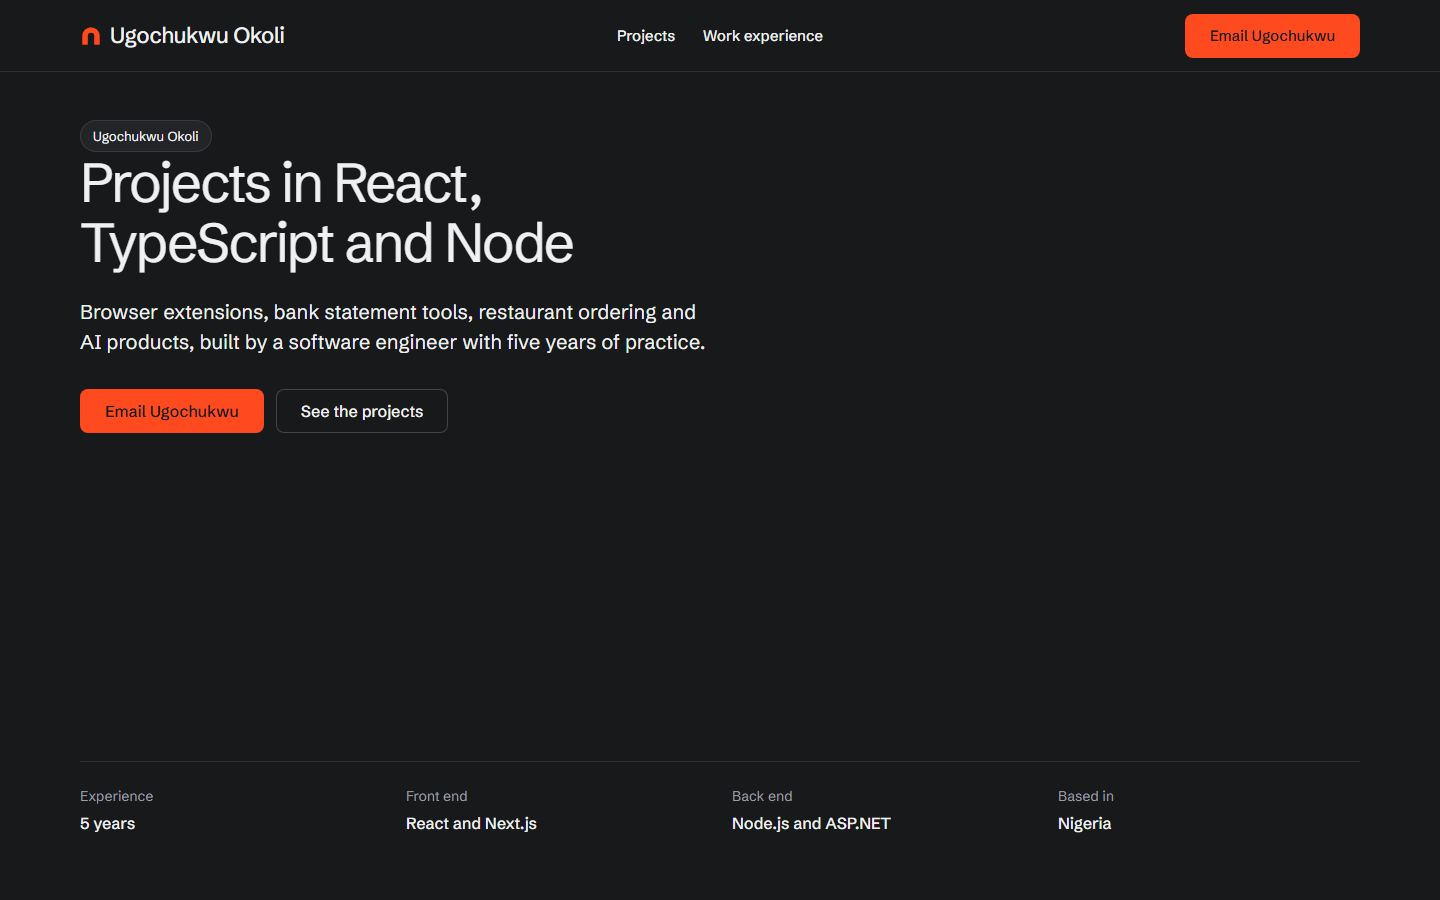
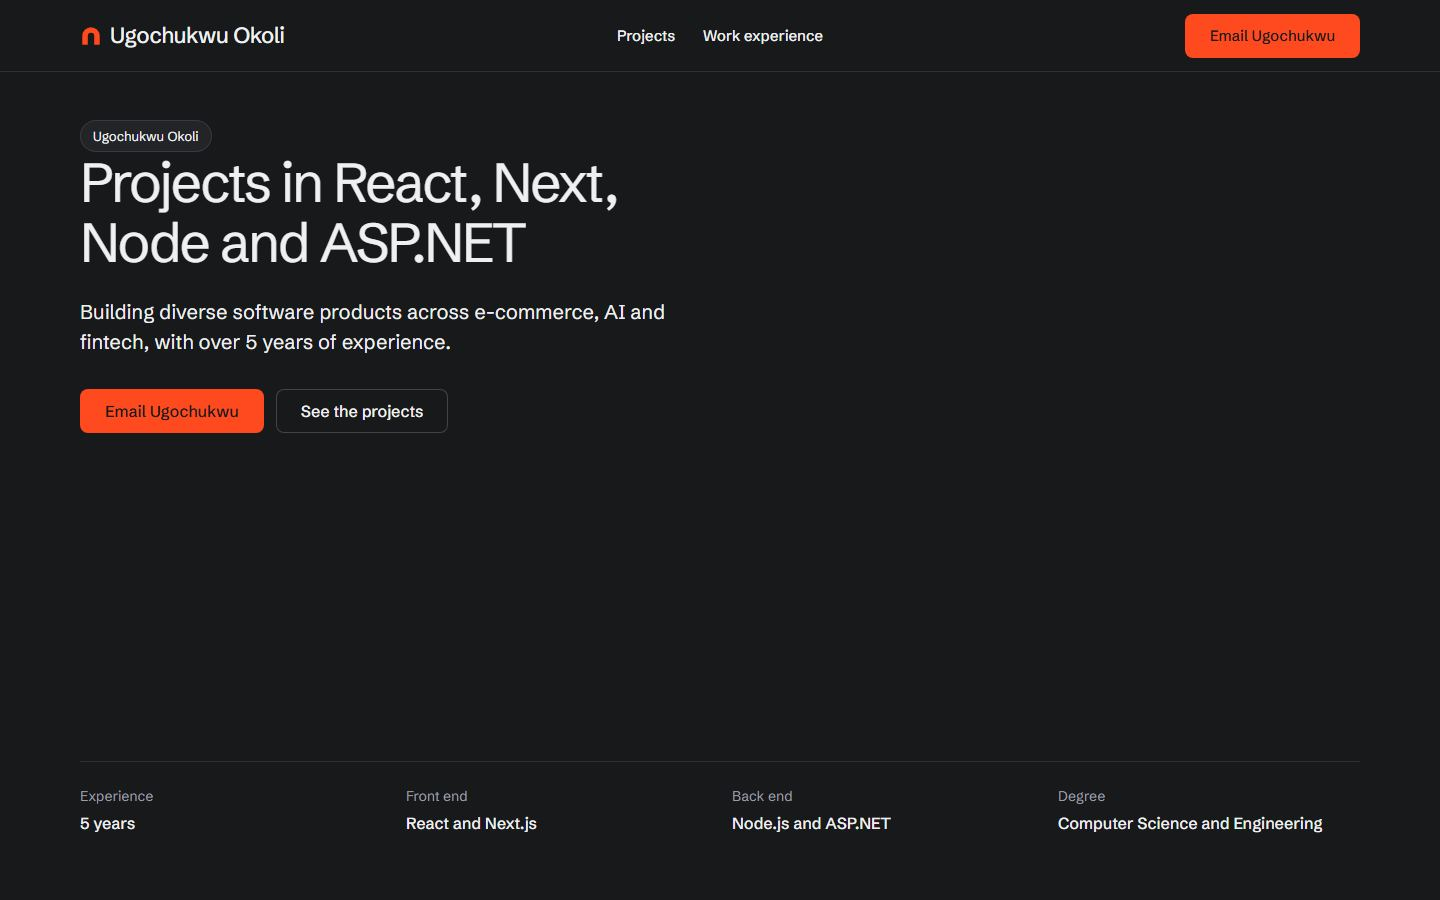
Update hero copy and drop location
New title and subtext, an experience count worked out from 2021, the
degree in place of the location, no location in the footer, and a new
share image.

Changed region(s): [[0.0312, 0.1867, 0.4375, 0.3111], [0.0625, 0.3422, 0.5, 0.4044], [0.7188, 0.8711, 0.9375, 0.9333]]

diff --git a/src/components/sections/Hero.tsx b/src/components/sections/Hero.tsx
@@ -1,10 +1,10 @@
-import { mailto, profile, resumeUrl } from '@/content/profile';
+import { mailto, profile, resumeUrl, yearsOfExperience } from '@/content/profile';
 
 const facts = [
-  { label: 'Experience', value: '5 years' },
+  { label: 'Experience', value: `${yearsOfExperience} years` },
   { label: 'Front end', value: 'React and Next.js' },
   { label: 'Back end', value: 'Node.js and ASP.NET' },
-  { label: 'Based in', value: profile.location },
+  { label: 'Degree', value: 'Computer Science and Engineering' },
 ] as const;
 
 export function Hero() {
@@ -16,9 +16,9 @@ export function Hero() {
             <a className="pill" href="#projects">
               <span>{profile.name}</span>
             </a>
-            <h1 id="hero-h" className="mo-lt__type">Projects in React, TypeScript and Node</h1>
+            <h1 id="hero-h" className="mo-lt__type">Projects in React, Next, Node and ASP.NET</h1>
             <p className="hero__lead">
-              Browser extensions, bank statement tools, restaurant ordering and AI products, built by a software engineer with five years of practice.
+              Building diverse software products across e-commerce, AI and fintech, with over {yearsOfExperience} years of experience.
             </p>
             <div className="btn-row">
               <a className="btn btn--primary" href={mailto}>{profile.mainAction}</a>

diff --git a/src/content/profile.ts b/src/content/profile.ts
@@ -2,7 +2,6 @@ import type { NavLink } from './types';
 
 export const profile = {
   name: 'Ugochukwu Okoli',
-  location: 'Nigeria',
   site: 'https://ugo-okoli.vercel.app',
   email: 'okoliryan50@gmail.com',
   github: 'https://github.com/Okoli-Ryan',
@@ -12,6 +11,9 @@ export const profile = {
   description:
     'Projects by Ugochukwu Okoli: Figo AI Labs, MailPilot, WatchParty and more, built with TypeScript, React and Node.js.',
 } as const;
+
+/** Counted from the first role (March 2021). Worked out at build time, so it moves on with the next build. */
+export const yearsOfExperience = new Date().getFullYear() - 2021;
 
 export const mailto = `mailto:${profile.email}`;
 

diff --git a/src/components/layout/SiteFooter.tsx b/src/components/layout/SiteFooter.tsx
@@ -9,7 +9,7 @@ export function SiteFooter() {
         <div className="closing__cta close--type">
           <div className="section-head">
             <h2 id="close-h">Open to senior software roles</h2>
-            <p>Based in {profile.location}. React, TypeScript and Node.js.</p>
+            <p>React, TypeScript and Node.js.</p>
           </div>
           <a className="btn btn--primary btn--xl btn--wide" href={mailto}>
             {profile.mainAction}
